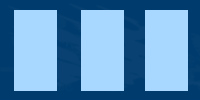
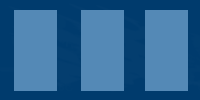
less bumpy buildings + nonzero initial velocity/accel thing

diff --git a/src/main.cpp b/src/main.cpp
@@ -69,7 +69,7 @@ vec3 p_light_scatter(110,60,0);
 //Sky Color
 vec4 skyColor(0,0,0,0);
 //Trippy Light Scattering Mode
-bool trippyMode = false;
+bool deathScatter = false;
 
 //===DEBUG STUFF 
 //background texture
@@ -113,7 +113,7 @@ int lapStartTime;
 int gameMode;
 void (*drawObjectTarget)(GeometryShader *);
 void (*drawOverlayTarget)();
-enum { MODE_RACE, MODE_TRACK_SELECT, MODE_TITLE };
+enum { MODE_RACE, MODE_TRACK_SELECT, MODE_TITLE , MODE_DEATH};
 int lastStartPress = 0;
 
 
@@ -660,7 +660,7 @@ void renderScene() {
   glViewport(0,0,lightScatterWidth,lightScatterHeight);
     
   // Clear previous frame values
-  if(trippyMode) {  
+  if(deathScatter) {  
     //glClearColor(1,1,1,1.0f);
     glClearColor(1,0,0,1.0f);
 
@@ -983,7 +983,7 @@ namespace raceScene {
       break;
     case 'A':
     case 'a':
-      trippyMode = !trippyMode;
+      deathScatter = !deathScatter;
       break;
     case '1':
       alSourceStop(currentMusic);
@@ -1249,7 +1249,7 @@ namespace titleScene {
       break;
     case 'A':
     case 'a':
-      trippyMode = !trippyMode;
+      deathScatter = !deathScatter;
       break;
     case '1':
       alSourceStop(currentMusic);
@@ -1423,7 +1423,7 @@ namespace trackSelectScene {
       break;
     case 'A':
     case 'a':
-      trippyMode = !trippyMode;
+      deathScatter = !deathScatter;
       break;
     case 'G':
     case 'g':
@@ -1519,7 +1519,51 @@ namespace trackSelectScene {
   }
 }
 
+namespace deathScene {
+  //just displays a YOU DIED message, everything else the same as title scene
+  void drawDeathOverlay() {
+    titleScene::drawTitleOverlay();
+   
 
+    
+    glEnable (GL_BLEND);
+    glDisable(GL_DEPTH_TEST);
+    glBlendFunc (GL_SRC_ALPHA, GL_ONE_MINUS_SRC_ALPHA);
+
+    glUseProgramObjectARB(0);
+    glMatrixMode(GL_PROJECTION);
+    glLoadIdentity();
+    glOrtho(-renderWidth/2,renderWidth/2,-renderHeight/2,renderHeight/2,1,20);
+    glMatrixMode(GL_MODELVIEW);
+    glLoadIdentity();
+
+    std::ostringstream buff;
+    glTranslated(0,0,-5);
+
+
+    glColor4f(1,1,1,0.75);
+    glBegin(GL_QUADS);
+    glTexCoord2d(0,0);glVertex3f(-renderWidth*0.45,-renderHeight*3/24,0);
+    glTexCoord2d(1,0);glVertex3f(-20,-renderHeight*3/24,0);
+    glTexCoord2d(1,1);glVertex3f(-20,renderHeight/6,0);
+    glTexCoord2d(0,1);glVertex3f(-renderWidth*0.45,renderHeight/6,0);
+    glEnd();
+
+
+    buff.str("");
+    buff << "YOU DIED!";
+    glColor4f(1,0,0,0.9);
+   
+    
+    evolutionFont->FaceSize(100);
+    drawString(evolutionFont, buff.str(),-renderWidth*0.45+20,0); 
+    evolutionFont->FaceSize(36);
+
+    glDisable(GL_BLEND);
+    glEnable(GL_DEPTH_TEST);
+
+  }
+}
 
 
 //Steps a vehicle 
@@ -1537,10 +1581,14 @@ void stepVehicle(int x) {
 
     //p_light = vehicle->lightPos();
     l_light = vehicle->worldSpacePos();
+
+    if(vehicle->getEnergy() < 0.0000001) {
+      setMode(MODE_DEATH);
+    }
   }
-  //redo this every 20ms
+  //redo this every 15ms
   lastTimeStep = newTime;
-  glutTimerFunc(20,stepVehicle, 0);
+  glutTimerFunc(15,stepVehicle, 0);
 
 }
 
@@ -1572,6 +1620,9 @@ void setMode(int newMode) {
         //Step Vehicle once (and it will recurse on timer)
         lastTimeStep = glutGet(GLUT_ELAPSED_TIME);
         stepVehicle(0);
+
+        deathScatter = false;
+
         break;
 
     case MODE_TITLE:
@@ -1601,7 +1652,42 @@ void setMode(int newMode) {
         p_light_scatter = vec3(0,-30,-40);
         l_light = vec3(0,0,0);        
         p_light = vec3(0,30,6);
+
+        deathScatter = false;
+
         break;
+
+    case MODE_DEATH:
+        gameMode = MODE_DEATH;  
+        alSourceStop(currentNoise);
+
+        vehMesh->centerAndScale(40);
+        drawObjectTarget = titleScene::drawObjects;
+        drawOverlayTarget = deathScene::drawDeathOverlay;
+
+        glutKeyboardFunc(titleScene::processNormalKeys);
+        glutKeyboardUpFunc(titleScene::processNormalKeysUp);
+        glutMotionFunc(titleScene::activeMotionFunc);
+        glutPassiveMotionFunc(titleScene::passiveMotionFunc);
+
+        glutSpecialFunc(titleScene::processSpecialKeys);
+        glutSpecialUpFunc(titleScene::processSpecialKeysUp);
+        glutJoystickFunc(titleScene::joystickFunc,10);
+
+        skyColor = vec4(0,.152941176,.282352941,1);
+
+        p_camera = vec3(0,10,16);
+        l_camera = vec3(0,0,0);
+        u_camera = vec3(0,1,0);
+
+        p_light_scatter = vec3(0,-30,-40);
+        l_light = vec3(0,0,0);        
+        p_light = vec3(0,30,6);
+
+        deathScatter = true;
+
+        break;
+
 	
     case MODE_TRACK_SELECT:
         gameMode = MODE_TRACK_SELECT;
@@ -1630,6 +1716,9 @@ void setMode(int newMode) {
         p_light = vec3(0,30,6);
         p_light_scatter = vec3(0,-50,-100);
         l_light = vec3(0,0,0);
+
+        deathScatter = false;
+
         break;
 
   }

diff --git a/src/Vehicle.cpp b/src/Vehicle.cpp
@@ -17,10 +17,10 @@ void Vehicle::draw(GeometryShader * shade) {
 
 void Vehicle::reset() {
   worldPos = sweep->sample(0).point;
-  velocity = sweep->sampleForward(0,0.01);
+  velocity = sweep->sampleForward_nonzero(0,0.01);
   velocity.normalize();
   pos = vec3(0,0,0);
-  acceleration = sweep->sampleForward(0,0.01);
+  acceleration = sweep->sampleForward_nonzero(0,0.01);
   up = sweep->sampleUp(0);
   up.normalize();
 
